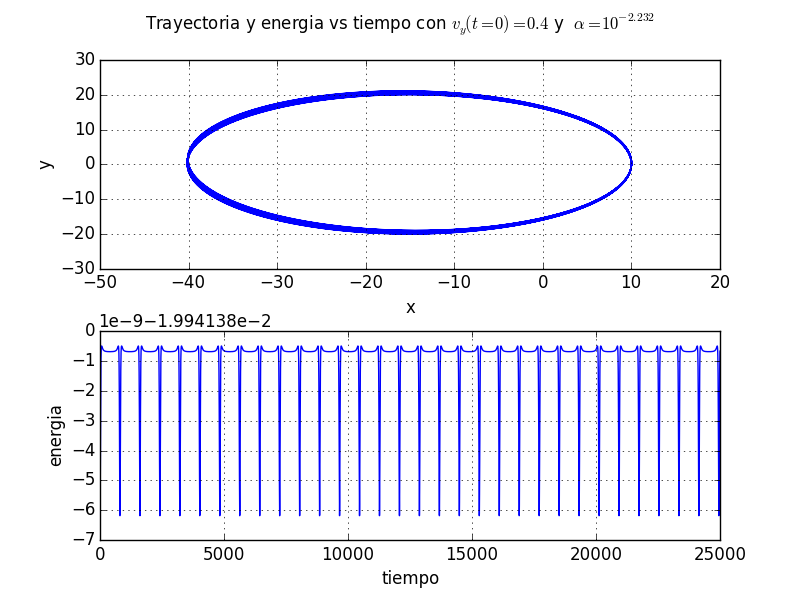
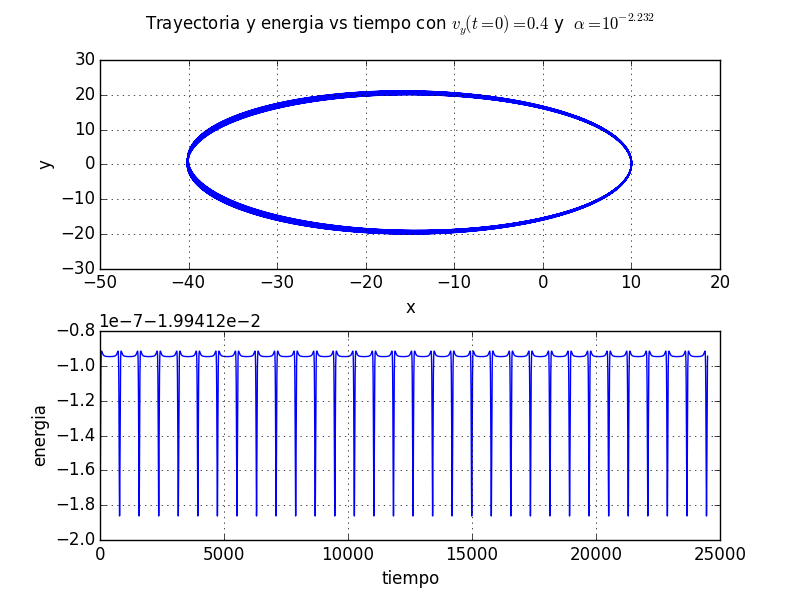
se dija dt=0.1 y dt=0.5(RK4)

diff --git a/solucion_usando_verlet.py b/solucion_usando_verlet.py
@@ -5,7 +5,7 @@ import matplotlib.pyplot as plt
 condicion_inicial = [10, 0, 0, 0.4]
 p = Planeta(condicion_inicial)
 
-N_steps = 7*np.int(1e5)
+N_steps = 4*np.int(1e4)
 dt=4000./N_steps
 #escogemos hasta 2000 para comparar todas las energias hasta el mismo tiempo
 t1=np.linspace(0,2000,N_steps)
@@ -38,7 +38,6 @@ ax1 = fig.add_subplot(311)
 plt.suptitle('Trayectoria y energia vs tiempo con $v_{y}(t=0)=0.4$ y  ' r'$\alpha=0$')
 fig.subplots_adjust(hspace=.3)
 ax1.plot(x,y)
-ax1.plot(x[274889],y[274889],'o',color='r')
 ax1.set_xlim(-45,15)
 ax1.grid(True)
 ax1.set_xlabel('x')

diff --git a/alpha_distinto_de_cero.py b/alpha_distinto_de_cero.py
@@ -6,9 +6,9 @@ condicion_inicial = [10, 0, 0, 0.4]
 p = Planeta(condicion_inicial, 10**(-2.232))#RUT=18.769.232-6
 #p = Planeta(condicion_inicial)
 
-N_steps = np.int(1e6)
+N_steps = 245*np.int(1e3)
 dt=24500./N_steps
-t=np.linspace(0,25000,N_steps)
+t=np.linspace(0,24500,N_steps)
 #creamos los arrays en que se guardara la informacion
 x= np.zeros(N_steps)
 y= np.zeros(N_steps)
@@ -79,9 +79,6 @@ for velocidad in velocidad_angular:
 velocidad_angular_promedio=suma_velocidades_angular/30.
 
 print velocidad_angular_promedio
-
-
-
 
 
 

diff --git a/solucion_usando_euler.py b/solucion_usando_euler.py
@@ -10,11 +10,11 @@ p = Planeta(condicion_inicial)
 
 
 
-N_steps = 3*np.int(1e4)
+N_steps = 5*np.int(1e4)
 dt=5000./N_steps
 #escogemos hasta 2000 para comparar todas las energias hasta el mismo tiempo
 
-t=np.linspace(0,2000,N_steps)
+t=np.linspace(0,5000,N_steps)
 #creamos los arrays en que se guardara la informacion
 x= np.zeros(N_steps)
 y= np.zeros(N_steps)
